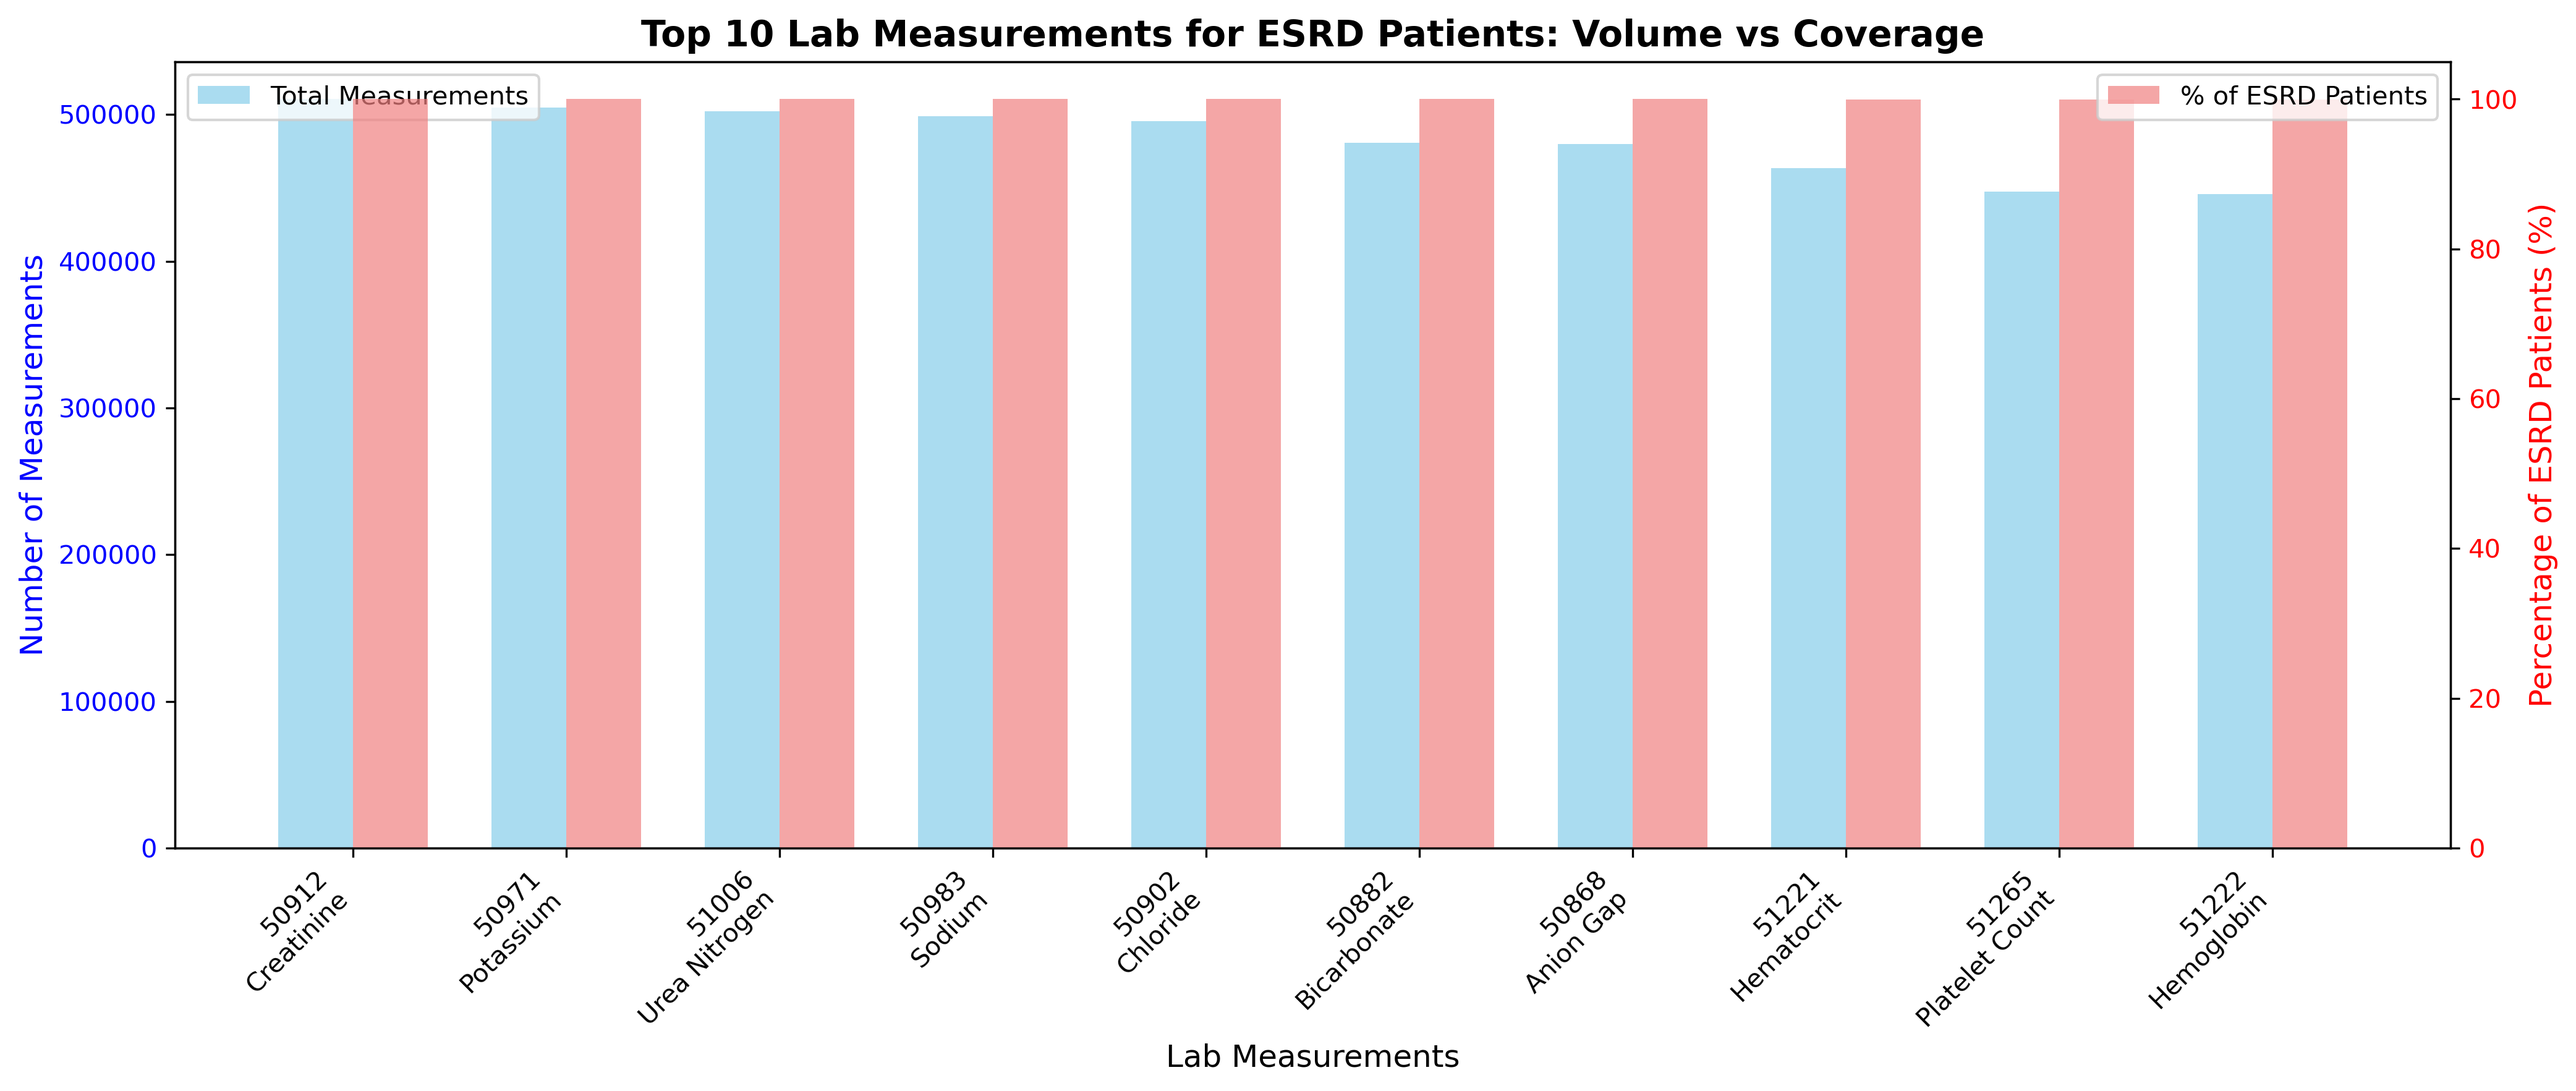
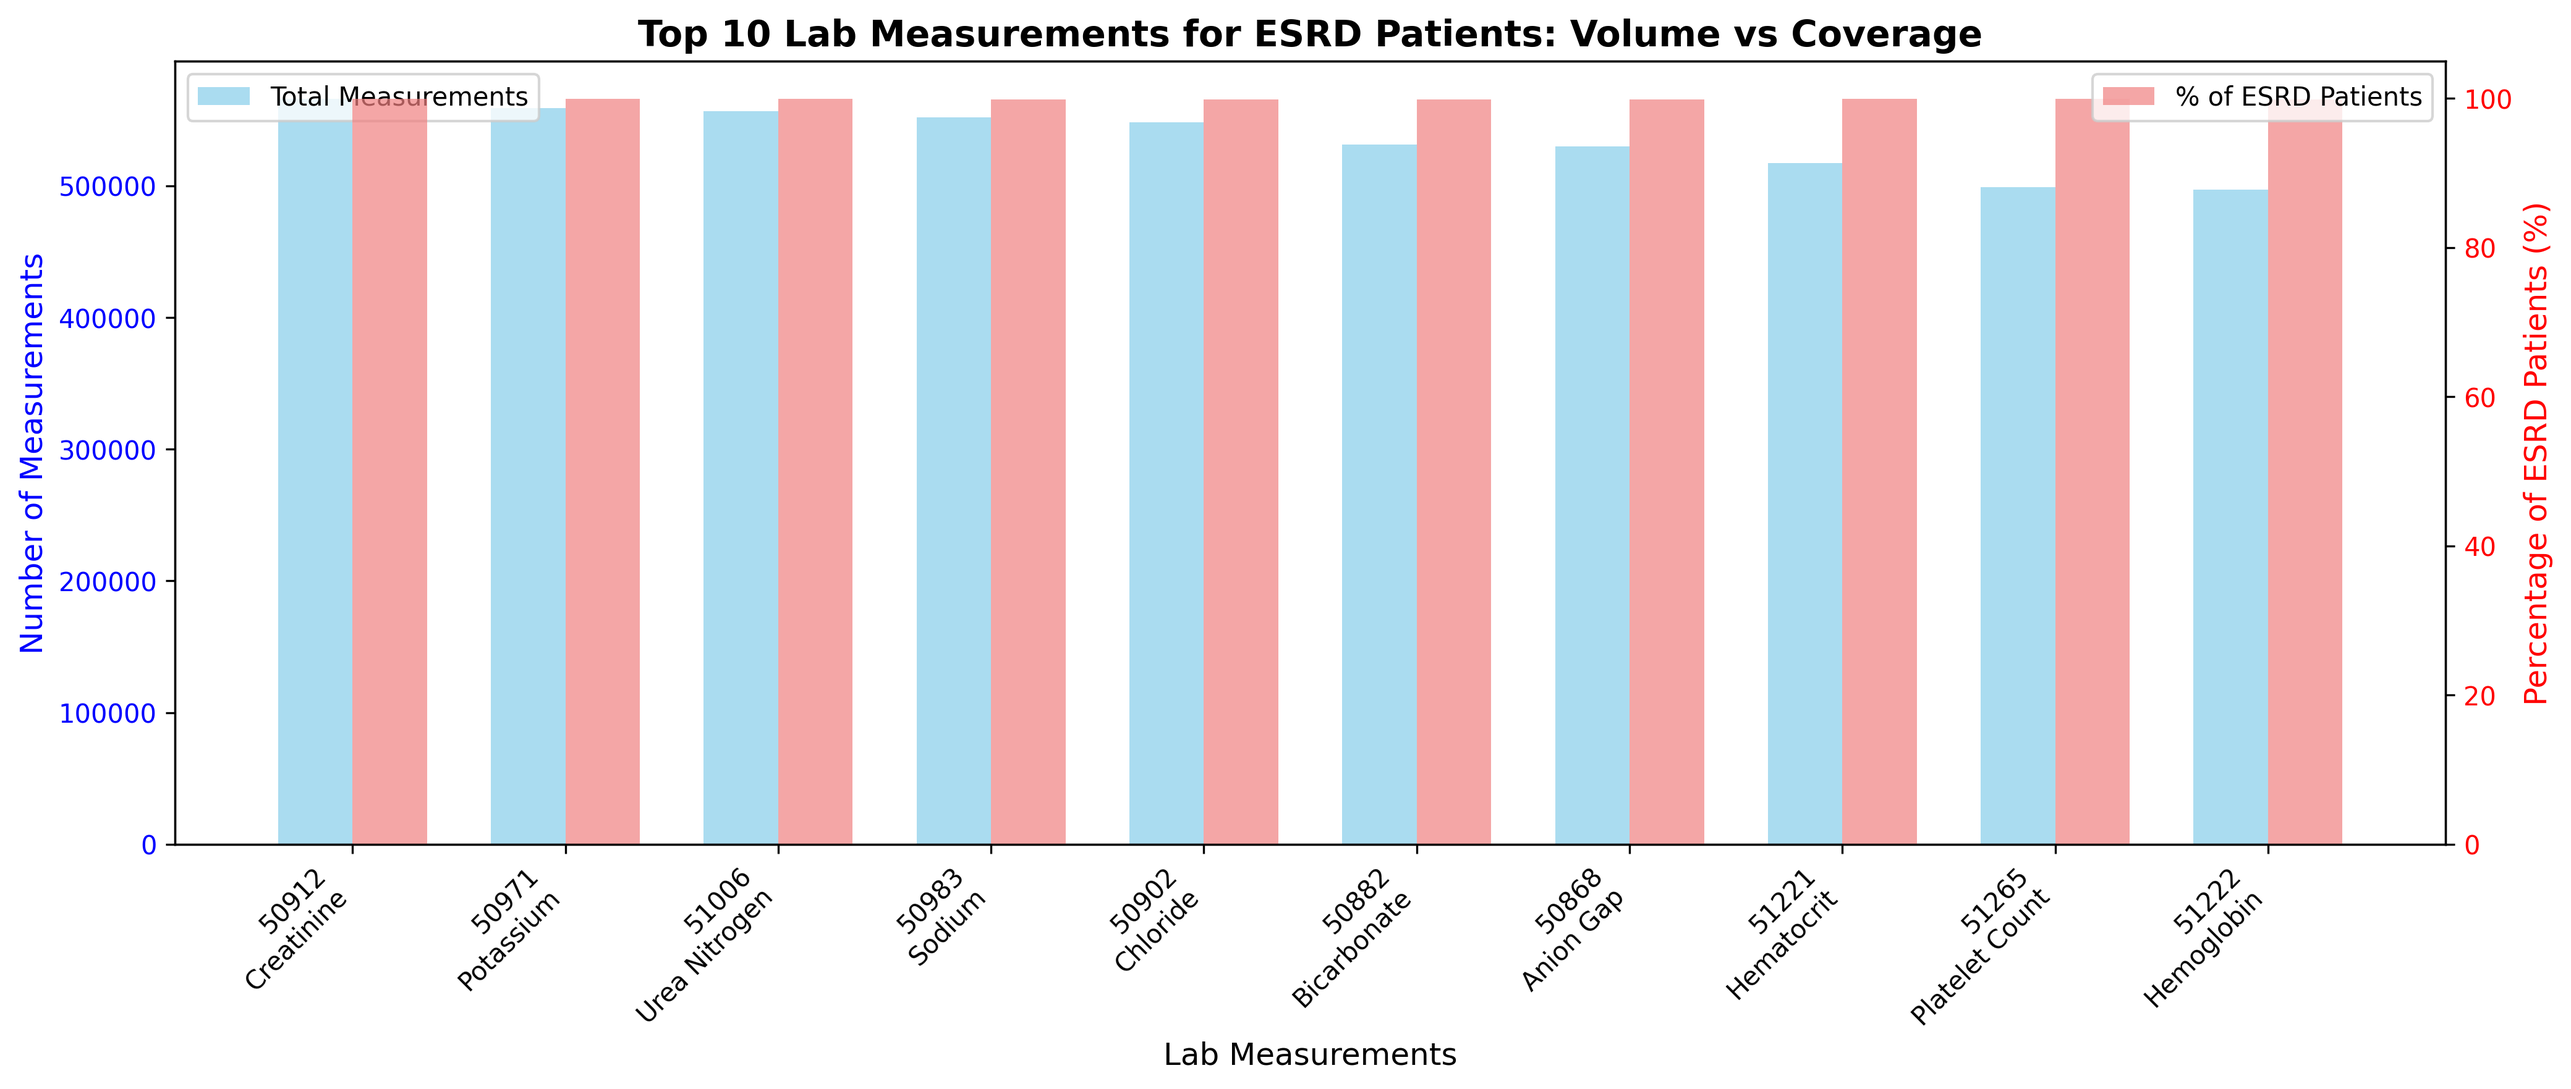
na

diff --git a/pkgs/scripts/esrd_lab_analysis.py b/pkgs/scripts/esrd_lab_analysis.py
@@ -2,7 +2,7 @@ import pandas as pd
 import matplotlib.pyplot as plt
 import seaborn as sns
 import numpy as np
-from pkgs.data.store import get_esrd_patients_and_diagnoses
+from pkgs.data.store import get_ckd_patients_and_diagnoses
 from pkgs.commons import generate_data_path_latest_rep
 
 plt.style.use('default')
@@ -11,20 +11,16 @@ sns.set_palette("husl")
 def load_data():
     print("Loading ESRD patients data...")
     
-    diagnoses_path = "/Volumes/MBAir_Extended/uiuc_kidney_failure/data/mimic-iv-2.2/hosp/diagnoses_icd.csv"
-    patients_path = "/Volumes/MBAir_Extended/uiuc_kidney_failure/data/mimic-iv-2.2/hosp/patients.csv"
-    
-    patients_df, esrd_diagnose_df = get_esrd_patients_and_diagnoses(
-        diagnose_icd_file_path_supplied_s=diagnoses_path,
-        patients_file_path_s=patients_path
+    patients_df, esrd_diagnose_df = get_ckd_patients_and_diagnoses(
+        late_stage=True,
     )
     
     print("Loading lab items dictionary...")
-    d_labitems_path = "/Volumes/MBAir_Extended/uiuc_kidney_failure/data/mimic-iv-2.2/hosp/d_labitems.csv"
+    d_labitems_path = "/home/minhn2/uiuc-kidney-failure/data/mimic-iv-2.2/hosp/d_labitems.csv"
     d_labitems_df = pd.read_csv(d_labitems_path)
     
     print("Loading lab events data...")
-    labevents_path = "/Volumes/MBAir_Extended/uiuc_kidney_failure/data/mimic-iv-2.2/hosp/labevents.csv"
+    labevents_path = "/home/minhn2/uiuc-kidney-failure/data/mimic-iv-2.2/hosp/labevents.csv"
     labevents_df = pd.read_csv(labevents_path)
     
     return patients_df, esrd_diagnose_df, d_labitems_df, labevents_df
